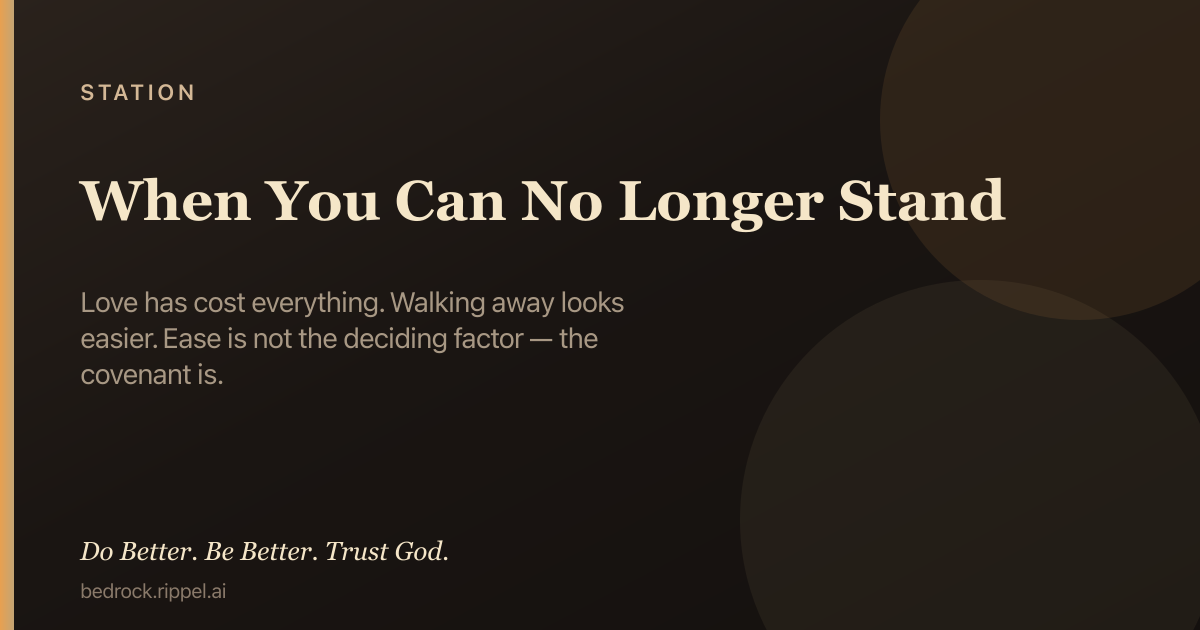
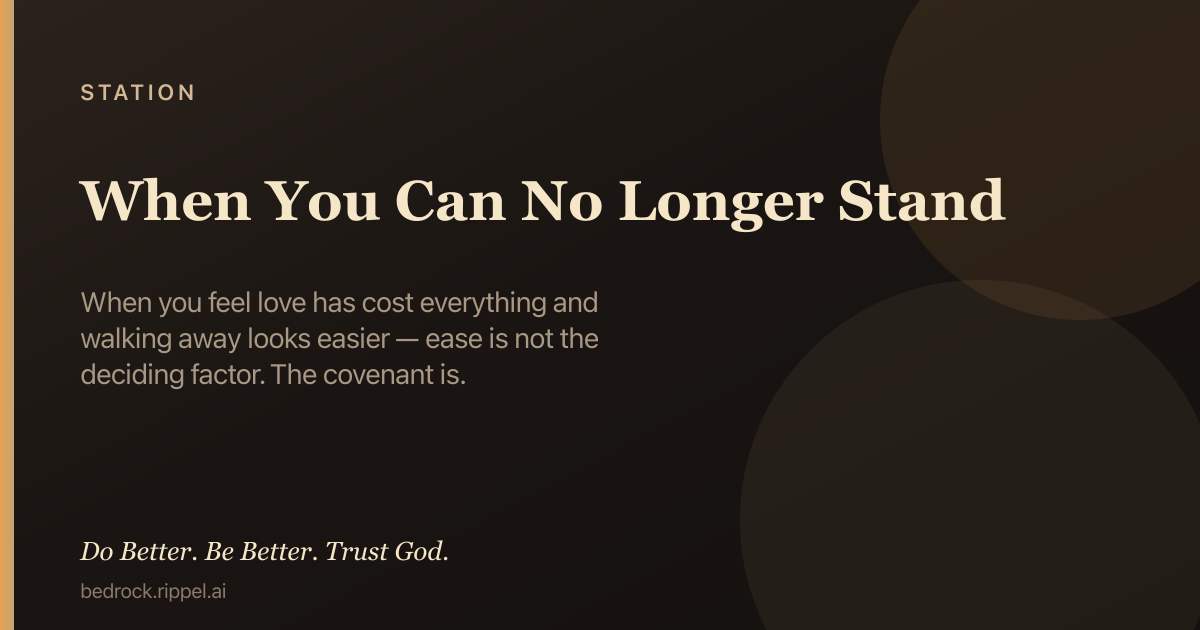
Feel-language on When You Can No Longer Stand
Summary, lead, and prayer: when you feel / I feel like love has
cost everything — not a settled fact. Covenant steel unchanged.

Changed region(s): [[0.0617, 0.4524, 0.5242, 0.6333]]

diff --git a/public/c/when-you-can-no-longer-stand.html b/public/c/when-you-can-no-longer-stand.html
@@ -4,7 +4,7 @@
   <meta charset="utf-8" />
   <meta name="viewport" content="width=device-width, initial-scale=1" />
   <title>When You Can No Longer Stand — Bedrock</title>
-  <meta name="description" content="Love has cost everything. Walking away looks easier. Ease is not the deciding factor — the covenant is. Hold first: Under fire, prayer, then Truth. Do…" />
+  <meta name="description" content="When you feel love has cost everything and walking away looks easier — ease is not the deciding factor. The covenant is. Hold first: Under fire, prayer…" />
   <meta name="robots" content="index, follow, max-image-preview:large, max-snippet:-1" />
   <meta name="ai-content-declaration" content="human-authored Christian field guide; hold-first: Under fire, Prayer, then Truth" />
   <link rel="canonical" href="https://bedrock.rippel.ai/c/when-you-can-no-longer-stand" />
@@ -12,7 +12,7 @@
   <meta property="og:site_name" content="Bedrock" />
   <meta property="og:type" content="article" />
   <meta property="og:title" content="When You Can No Longer Stand — Bedrock" />
-  <meta property="og:description" content="Love has cost everything. Walking away looks easier. Ease is not the deciding factor — the covenant is. Hold first: Under fire, prayer, then Truth. Do…" />
+  <meta property="og:description" content="When you feel love has cost everything and walking away looks easier — ease is not the deciding factor. The covenant is. Hold first: Under fire, prayer…" />
   <meta property="og:url" content="https://bedrock.rippel.ai/c/when-you-can-no-longer-stand" />
   <meta property="og:image" content="https://bedrock.rippel.ai/og/c/when-you-can-no-longer-stand.v10.png" />
   <meta property="og:image:secure_url" content="https://bedrock.rippel.ai/og/c/when-you-can-no-longer-stand.v10.png" />
@@ -22,14 +22,14 @@
   <meta property="og:image:alt" content="When You Can No Longer Stand — Bedrock" />
   <meta name="twitter:card" content="summary_large_image" />
   <meta name="twitter:title" content="When You Can No Longer Stand — Bedrock" />
-  <meta name="twitter:description" content="Love has cost everything. Walking away looks easier. Ease is not the deciding factor — the covenant is. Hold first: Under fire, prayer, then Truth. Do…" />
+  <meta name="twitter:description" content="When you feel love has cost everything and walking away looks easier — ease is not the deciding factor. The covenant is. Hold first: Under fire, prayer…" />
   <meta name="twitter:image" content="https://bedrock.rippel.ai/og/c/when-you-can-no-longer-stand.v10.png" />
   <meta name="twitter:image:alt" content="When You Can No Longer Stand — Bedrock" />
   <script type="application/ld+json">
-  {"@context":"https://schema.org","@type":"Article","headline":"When You Can No Longer Stand","description":"Love has cost everything. Walking away looks easier. Ease is not the deciding factor — the covenant is.","url":"https://bedrock.rippel.ai/c/when-you-can-no-longer-stand","author":{"@type":"Organization","name":"Bedrock","url":"https://bedrock.rippel.ai"},"publisher":{"@type":"Organization","name":"Bedrock","url":"https://bedrock.rippel.ai"},"image":"https://bedrock.rippel.ai/og/c/when-you-can-no-longer-stand.v10.png","inLanguage":"en","isPartOf":{"@type":"WebSite","name":"Bedrock","url":"https://bedrock.rippel.ai"},"articleSection":"First principle · Hold first","keywords":"When You Can No Longer Stand, Bedrock, Under fire, prayer, Scripture"}
+  {"@context":"https://schema.org","@type":"Article","headline":"When You Can No Longer Stand","description":"When you feel love has cost everything and walking away looks easier — ease is not the deciding factor. The covenant is.","url":"https://bedrock.rippel.ai/c/when-you-can-no-longer-stand","author":{"@type":"Organization","name":"Bedrock","url":"https://bedrock.rippel.ai"},"publisher":{"@type":"Organization","name":"Bedrock","url":"https://bedrock.rippel.ai"},"image":"https://bedrock.rippel.ai/og/c/when-you-can-no-longer-stand.v10.png","inLanguage":"en","isPartOf":{"@type":"WebSite","name":"Bedrock","url":"https://bedrock.rippel.ai"},"articleSection":"First principle · Hold first","keywords":"When You Can No Longer Stand, Bedrock, Under fire, prayer, Scripture"}
   </script>
   <script type="application/ld+json">
-  {"@context":"https://schema.org","@type":"HowTo","name":"Use When You Can No Longer Stand under fire (Bedrock hold-first)","description":"Open this chamber for the next right hold: Under fire first, then Prayer, then Truth when you can read.","step":[{"@type":"HowToStep","position":1,"name":"Under fire","text":"Ease is not the deciding factor. The covenant is. Keep praying. Keep hoping for change. Refuse bitterness. Guard your spirit. Do not deal treacherously. Submit to Him."},{"@type":"HowToStep","position":2,"name":"Prayer","text":"Father, love has cost everything. Walking away looks easier. I am bound by covenant. Form patience. Help me stand firm. Amen."},{"@type":"HowToStep","position":3,"name":"Truth","text":"When capacity returns, read the Scripture-rooted body on this page."}],"url":"https://bedrock.rippel.ai/c/when-you-can-no-longer-stand"}
+  {"@context":"https://schema.org","@type":"HowTo","name":"Use When You Can No Longer Stand under fire (Bedrock hold-first)","description":"Open this chamber for the next right hold: Under fire first, then Prayer, then Truth when you can read.","step":[{"@type":"HowToStep","position":1,"name":"Under fire","text":"Ease is not the deciding factor. The covenant is. Keep praying. Keep hoping for change. Refuse bitterness. Guard your spirit. Do not deal treacherously. Submit to Him."},{"@type":"HowToStep","position":2,"name":"Prayer","text":"Father, I feel like love has cost me everything. Walking away looks easier. I am bound by covenant. Form patience. Help me stand firm. Amen."},{"@type":"HowToStep","position":3,"name":"Truth","text":"When capacity returns, read the Scripture-rooted body on this page."}],"url":"https://bedrock.rippel.ai/c/when-you-can-no-longer-stand"}
   </script>
   <script defer src="https://cloud.umami.is/script.js" data-website-id="9b3e462b-60b8-4403-bbbf-15aced7e77dd"></script>
   <script>
@@ -211,7 +211,7 @@
         <header class="chamber-header">
           <p class="chamber-kicker">First principle</p>
           <h1 class="chamber-title">When You Can No Longer Stand</h1>
-          <p class="chamber-summary">Love has cost everything. Walking away looks easier. Ease is not the deciding factor — the covenant is.</p>
+          <p class="chamber-summary">When you feel love has cost everything and walking away looks easier — ease is not the deciding factor. The covenant is.</p>
           
         </header>
         <nav class="nav" aria-label="Chamber actions">
@@ -231,14 +231,14 @@
           <section class="field-layer field-prayers" aria-labelledby="prayer">
             <h2 id="prayer" class="field-layer-label">Prayer</h2>
             <p class="field-layer-hint">When you do not have the words.</p>
-            <ul class="field-list prayer-list"><li class="prayer-item">Father, love has cost everything. Walking away looks easier. I am bound by covenant. Form patience. Help me stand firm. Amen.</li></ul>
+            <ul class="field-list prayer-list"><li class="prayer-item">Father, I feel like love has cost me everything. Walking away looks easier. I am bound by covenant. Form patience. Help me stand firm. Amen.</li></ul>
           </section>
         </div>
       </div>
       <section class="field-layer field-truth-depth" aria-labelledby="truth">
         <h2 id="truth" class="field-layer-label">Truth</h2>
         <p class="field-layer-hint">When you can read deeper — Scripture-rooted steel.</p>
-        <div class="chamber-body"><p class="chamber-paragraph">You can no longer stand in your own strength. Love has cost everything. Walking away looks easier. Ease is not the deciding factor. The covenant is. Stand under God — He forms patience in the trial.</p>
+        <div class="chamber-body"><p class="chamber-paragraph">You can no longer stand in your own strength. You feel like love has cost everything. Walking away looks easier. Ease is not the deciding factor. The covenant is. Stand under God — He forms patience in the trial.</p>
 <p class="chamber-paragraph">Count it all joy, my brothers, when you meet trials of various kinds, for you know that the testing of your faith produces steadfastness. And let steadfastness have its full effect, that you may be perfect and complete, lacking in nothing.</p>
 <p class="chamber-paragraph">Husbands, love your wives, as Christ loved the church and gave Himself up for her. Love as Christ loved — even when they are hard to love. Feelings come and go. The covenant still holds.</p>
 <p class="chamber-paragraph">“For I hate divorce,” says the Lord, the God of Israel… So guard yourselves in your spirit, and do not be faithless. Guard your spirit. Do not deal treacherously. Exit is not wisdom when God still calls you to stay faithful.</p>

diff --git a/public/c/when-you-can-no-longer-stand.md b/public/c/when-you-can-no-longer-stand.md
@@ -1,6 +1,6 @@
 # When You Can No Longer Stand
 
-> Love has cost everything. Walking away looks easier. Ease is not the deciding factor — the covenant is.
+> When you feel love has cost everything and walking away looks easier — ease is not the deciding factor. The covenant is.
 
 *Station · Hold first (Under fire → Prayer → Truth) · Bedrock · https://bedrock.rippel.ai/c/when-you-can-no-longer-stand*
 
@@ -12,11 +12,11 @@
 
 ## Prayer
 
-Father, love has cost everything. Walking away looks easier. I am bound by covenant. Form patience. Help me stand firm. Amen.
+Father, I feel like love has cost me everything. Walking away looks easier. I am bound by covenant. Form patience. Help me stand firm. Amen.
 
 ## Truth
 
-You can no longer stand in your own strength. Love has cost everything. Walking away looks easier. Ease is not the deciding factor. The covenant is. Stand under God — He forms patience in the trial.
+You can no longer stand in your own strength. You feel like love has cost everything. Walking away looks easier. Ease is not the deciding factor. The covenant is. Stand under God — He forms patience in the trial.
 
 Count it all joy, my brothers, when you meet trials of various kinds, for you know that the testing of your faith produces steadfastness. And let steadfastness have its full effect, that you may be perfect and complete, lacking in nothing.
 

diff --git a/public/c/README.md b/public/c/README.md
@@ -26,7 +26,7 @@ Canonical field-guide pages for crawlers and answer engines.
 - [Self-control](https://bedrock.rippel.ai/c/self-control) — Spirit fruit: self-control.
 - [God on Marriage](https://bedrock.rippel.ai/c/god-on-marriage) — Marriage is His design — lifelong one-flesh covenant. Not of feelings. Hold the standard when the house shakes.
 - [Marriage Covenant](https://bedrock.rippel.ai/c/marriage-covenant) — One-flesh covenant. Sacrificial love.
-- [When You Can No Longer Stand](https://bedrock.rippel.ai/c/when-you-can-no-longer-stand) — Love has cost everything. Walking away looks easier. Ease is not the deciding factor — the covenant is.
+- [When You Can No Longer Stand](https://bedrock.rippel.ai/c/when-you-can-no-longer-stand) — When you feel love has cost everything and walking away looks easier — ease is not the deciding factor. The covenant is.
 - [Love and Patience](https://bedrock.rippel.ai/c/love-and-patience) — True love is patient, kind, and keeps no record of wrongs.
 - [Count the Trial as Joy](https://bedrock.rippel.ai/c/count-the-trial-as-joy) — Consider it pure joy when you face trials.
 - [Wait on the Lord](https://bedrock.rippel.ai/c/wait-on-the-lord) — When everything is out of your control — wait. Be strong. Take courage.

diff --git a/public/og/README.md b/public/og/README.md
@@ -9,4 +9,4 @@ Version: v10 (path-versioned for social cache bust).
 - Origin (About): `/og/origin.png`
 - Sealed poem (tall): `/og/testimony-poem.png`
 
-Cards: 114 · ~6617 KB total
+Cards: 114 · ~6620 KB total
